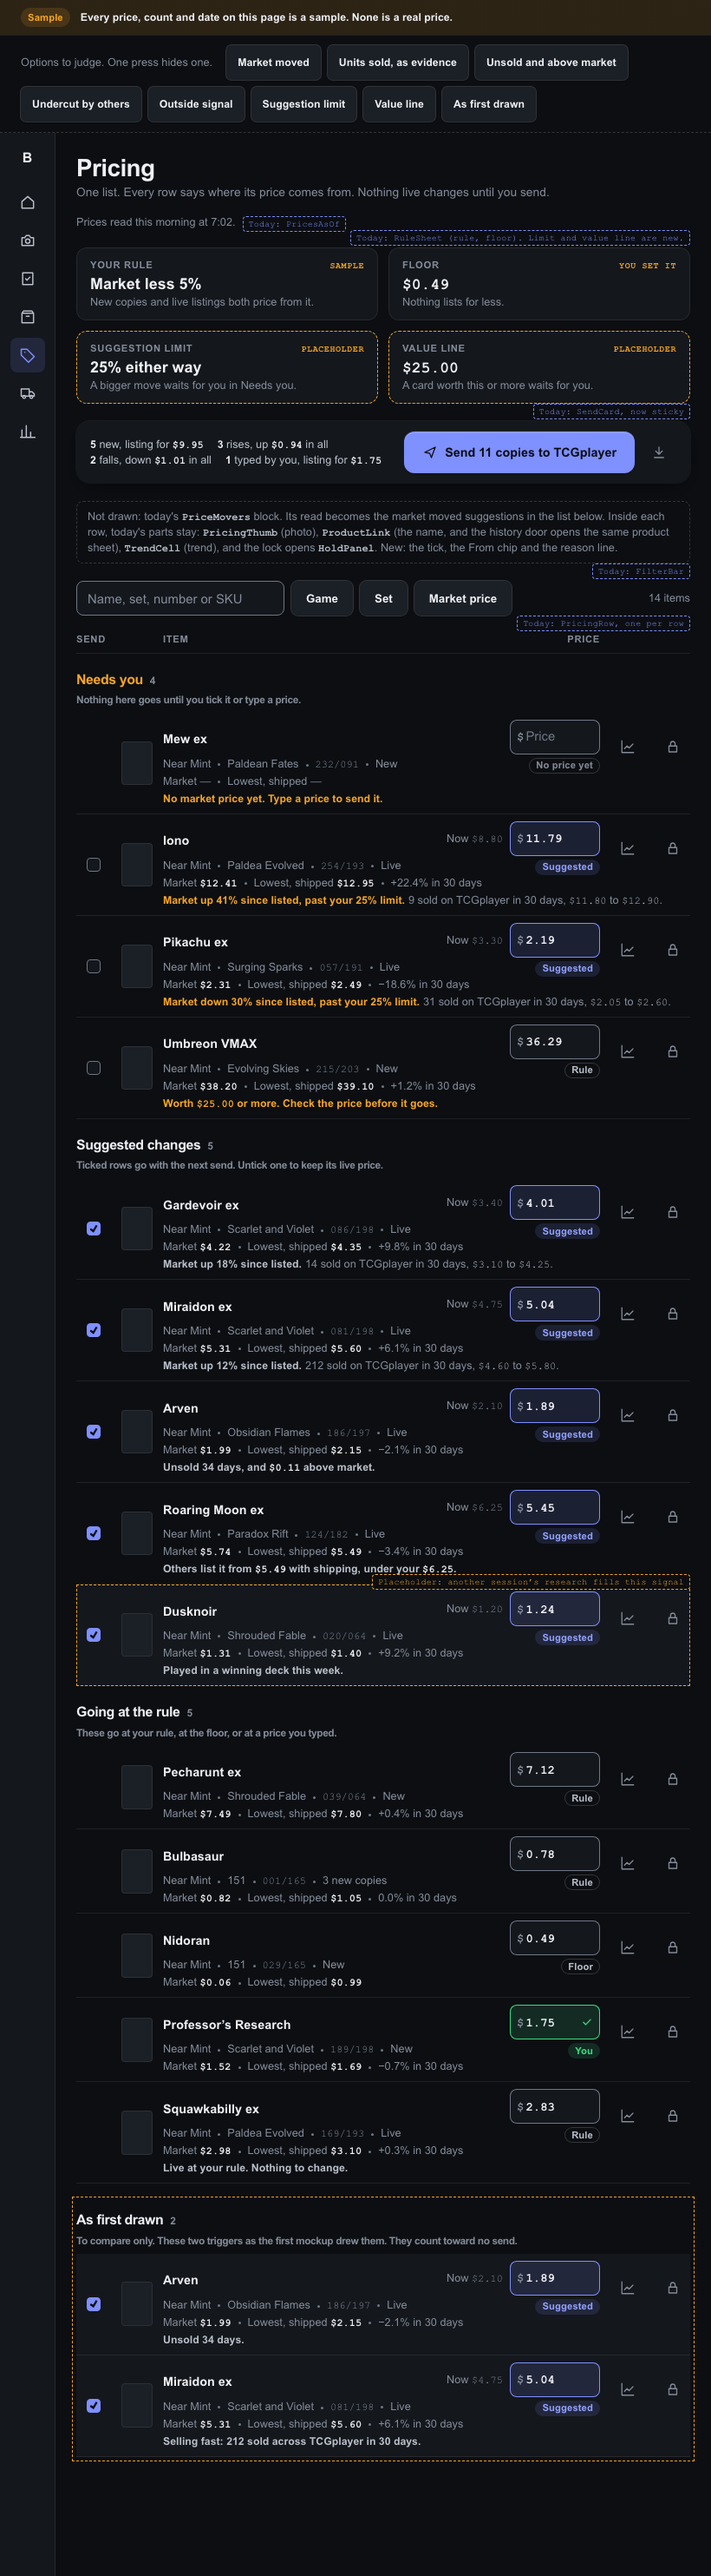
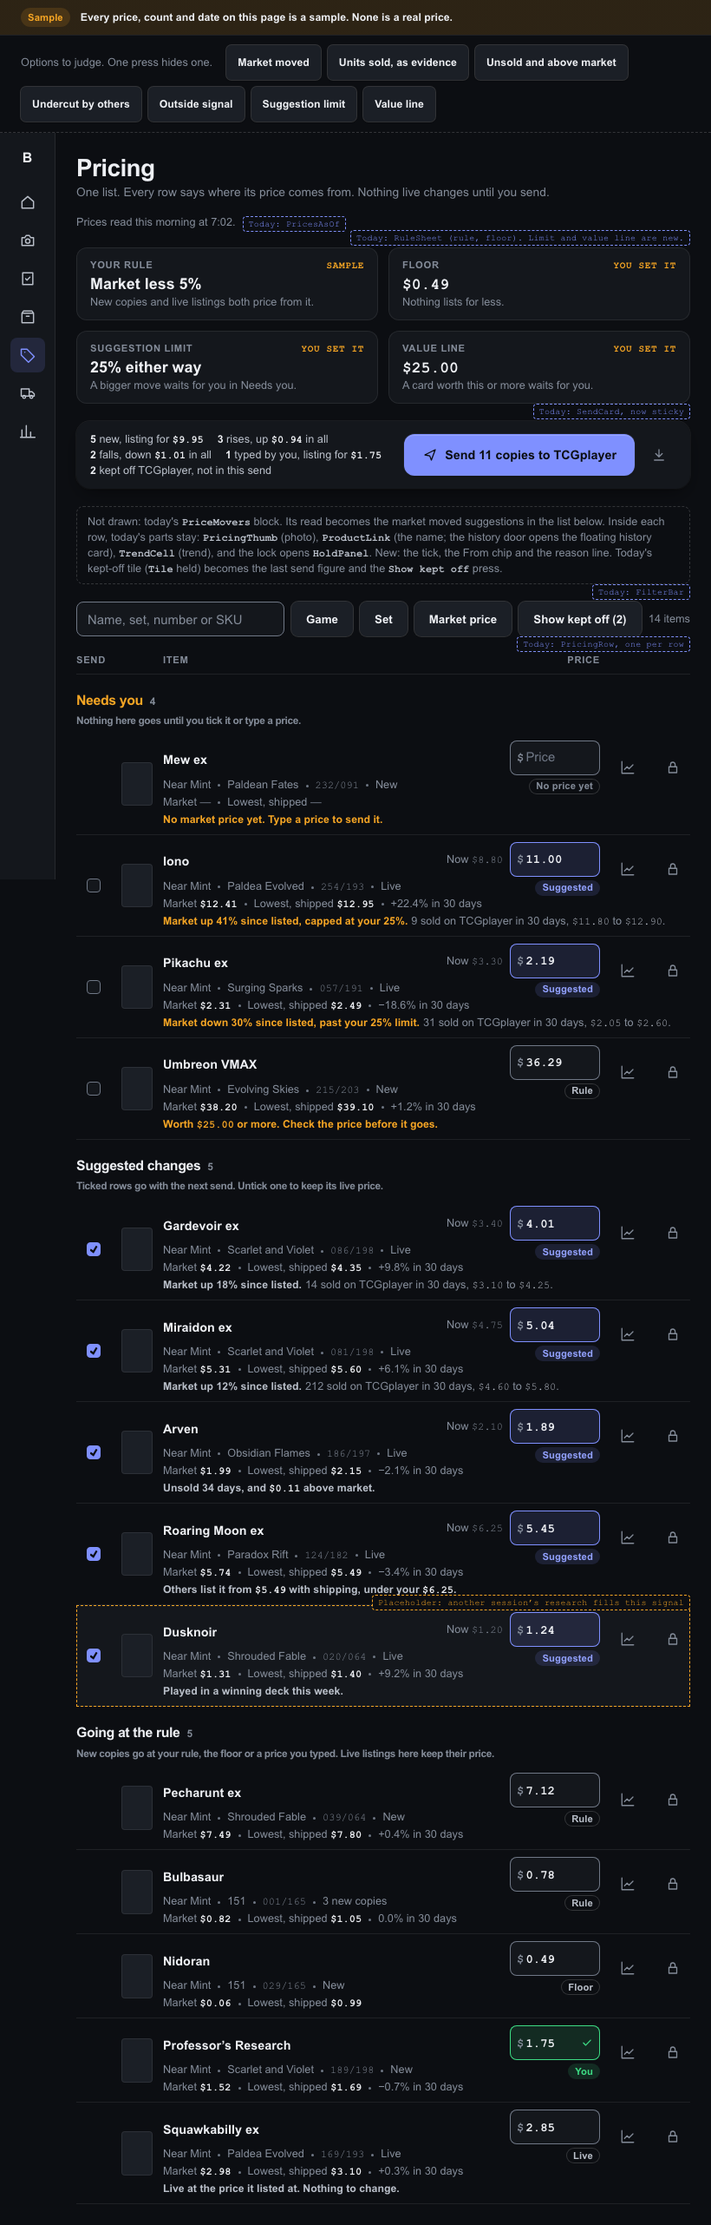
design: pricing list mockup matches the signed-off rulings
Add the Live source and keep a live price that has no reason to change.
Stop a raise at the suggestion limit (Iono $8.80 to $11.00).
Show the kept-off count in the send bar and a "Show kept off" press.
Mark the limit and value line as owner settings; drop the compare group.
Notes record the rulings; open items carry Owner grant: yes.

Done: list mockup checked against spec and rulings at 1440 and 820, light and dark; PNGs re-shot.
Next: builder lane pricing-one-list builds from it.

diff --git a/docs/design/pricing-suggest/list.html b/docs/design/pricing-suggest/list.html
@@ -55,7 +55,7 @@
     .frame[data-w='820'] .asof .today { bottom: auto; top: 2px; right: auto; left: calc(100% + var(--bn-2)); }
   body.nonotes .today, body.nonotes .gone-note { display: none; }
   .placeholder-ring { outline: 1px dashed var(--bn-warn); outline-offset: -1px; }
-  .ph { font-family: var(--bn-font-mono); font-size: var(--bn-fs-2xs); letter-spacing: var(--bn-tracking-caps);
+  .ph { font-family: var(--bn-font-mono); font-size: var(--bn-fs-xs); letter-spacing: var(--bn-tracking-caps);
         text-transform: uppercase; color: var(--bn-warn); font-weight: 700; }
 
   /* ---------- the shell: sidebar at 1440, rail at 820 ---------- */
@@ -127,7 +127,6 @@
   .group-count { font-size: var(--bn-fs-sm); font-weight: 700; color: var(--bn-ink-3); font-variant-numeric: tabular-nums; }
   .group-lede { font-size: var(--bn-fs-sm); color: var(--bn-ink-3); margin-left: var(--bn-2); }
   .group[data-g='needs'] .group-title { color: var(--bn-warn); }
-  .group[data-g='first'] { margin-top: var(--bn-5); padding: var(--bn-3) 0 0; outline: 1px dashed var(--bn-warn); outline-offset: var(--bn-1); }
   .group[hidden], .row[hidden], [data-opt][hidden] { display: none; }
 
   /* A row is two lines: the name line with its figures, then the reason under them. */
@@ -243,13 +242,13 @@
             <span class="set-val"><span class="bn-money">$0.49</span></span>
             <span class="set-says">Nothing lists for less.</span>
           </button>
-          <button class="set placeholder-ring" type="button" data-opt="cap">
-            <span class="set-top"><span class="bn-label">Suggestion limit</span><span class="ph">Placeholder</span></span>
+          <button class="set" type="button" data-opt="cap">
+            <span class="set-top"><span class="bn-label">Suggestion limit</span><span class="ph">You set it</span></span>
             <span class="set-val">25% either way</span>
             <span class="set-says">A bigger move waits for you in Needs you.</span>
           </button>
-          <button class="set placeholder-ring" type="button" data-opt="value">
-            <span class="set-top"><span class="bn-label">Value line</span><span class="ph">Placeholder</span></span>
+          <button class="set" type="button" data-opt="value">
+            <span class="set-top"><span class="bn-label">Value line</span><span class="ph">You set it</span></span>
             <span class="set-val"><span class="bn-money">$25.00</span></span>
             <span class="set-says">A card worth this or more waits for you.</span>
           </button>
@@ -268,7 +267,7 @@
         </aside>
 
         <p class="gone-note">Not drawn: today's <b>PriceMovers</b> block. Its read becomes the market moved suggestions in the list below.
-          Inside each row, today's parts stay: <b>PricingThumb</b> (photo), <b>ProductLink</b> (the name, and the history door opens the same product sheet), <b>TrendCell</b> (trend), and the lock opens <b>HoldPanel</b>. New: the tick, the From chip and the reason line.</p>
+          Inside each row, today's parts stay: <b>PricingThumb</b> (photo), <b>ProductLink</b> (the name; the history door opens the floating history card), <b>TrendCell</b> (trend), and the lock opens <b>HoldPanel</b>. New: the tick, the From chip and the reason line. Today's kept-off tile (<b>Tile</b> held) becomes the last send figure and the <b>Show kept off</b> press.</p>
 
         <div class="filters mark">
           <span class="today">Today: FilterBar</span>
@@ -276,6 +275,7 @@
           <button class="bn-btn chip" type="button">Game</button>
           <button class="bn-btn chip" type="button">Set</button>
           <button class="bn-btn chip" type="button">Market price</button>
+          <button class="bn-btn chip" type="button" data-kept></button>
           <span class="count" data-count></span>
         </div>
 
@@ -324,7 +324,7 @@
   const OPTIONS = [
     ['moved', 'Market moved'], ['fast', 'Units sold, as evidence'], ['unsold', 'Unsold and above market'],
     ['undercut', 'Undercut by others'], ['signal', 'Outside signal'], ['cap', 'Suggestion limit'],
-    ['value', 'Value line'], ['first', 'As first drawn'],
+    ['value', 'Value line'],
   ]
   const hidden = new Set((HASH.get('hide') || '').split(',').filter(Boolean))
 
@@ -338,7 +338,7 @@
       { kind: 'new', name: 'Mew ex', set: 'Paldean Fates', no: '232/091', market: null, low: null, price: null, src: 'none',
         why: 'No market price yet. Type a price to send it.', tone: 'warn', tick: null, spark: null },
       { kind: 'live', name: 'Iono', set: 'Paldea Evolved', no: '254/193', market: 12.41, low: 12.95, now: 8.80, price: 12.41, src: 'Suggested', opt: 'cap',
-        why: 'Market up 41% since listed, past your 25% limit.', ev: ev(9, 11.80, 12.90), tone: 'warn', tick: false, spark: [5, 5, 6, 6, 7, 8, 9, 9], pct: '+22.4%' },
+        why: 'Market up 41% since listed, capped at your 25%.', ev: ev(9, 11.80, 12.90), tone: 'warn', tick: false, spark: [5, 5, 6, 6, 7, 8, 9, 9], pct: '+22.4%' },
       { kind: 'live', name: 'Pikachu ex', set: 'Surging Sparks', no: '057/191', market: 2.31, low: 2.49, now: 3.30, price: 2.31, src: 'Suggested', opt: 'cap',
         why: 'Market down 30% since listed, past your 25% limit.', ev: ev(31, 2.05, 2.60), tone: 'warn', tick: false, spark: [9, 9, 8, 7, 6, 5, 4, 4], pct: '−18.6%' },
       { kind: 'new', name: 'Umbreon VMAX', set: 'Evolving Skies', no: '215/203', market: 38.20, low: 39.10, price: 36.29, src: 'Rule', opt: 'value',
@@ -357,33 +357,30 @@
         ring: 'Placeholder: another session’s research fills this signal',
         why: 'Played in a winning deck this week.', tick: true, spark: [3, 3, 3, 3, 4, 4, 4, 5], pct: '+9.2%' },
     ] },
-    { g: 'rule', title: 'Going at the rule', lede: 'These go at your rule, at the floor, or at a price you typed.', rows: [
+    { g: 'rule', title: 'Going at the rule', lede: 'New copies go at your rule, the floor or a price you typed. Live listings here keep their price.', rows: [
       { kind: 'new', name: 'Pecharunt ex', set: 'Shrouded Fable', no: '039/064', market: 7.49, low: 7.80, price: 7.12, src: 'Rule', tick: null, spark: [7, 7, 7, 6, 7, 7, 7, 7], pct: '+0.4%' },
       { kind: 'new', name: 'Bulbasaur', set: '151', no: '001/165', copies: 3, market: 0.82, low: 1.05, price: 0.78, src: 'Rule', tick: null, spark: [5, 5, 5, 5, 5, 5, 5, 5], pct: '0.0%' },
       { kind: 'new', name: 'Nidoran', set: '151', no: '029/165', market: 0.06, low: 0.99, price: 0.49, src: 'Floor', tick: null, spark: null },
       { kind: 'new', name: 'Professor’s Research', set: 'Scarlet and Violet', no: '189/198', market: 1.52, low: 1.69, price: 1.75, src: 'You', tick: null, spark: [5, 5, 5, 5, 4, 5, 5, 5], pct: '−0.7%' },
-      { kind: 'live', name: 'Squawkabilly ex', set: 'Paldea Evolved', no: '169/193', market: 2.98, low: 3.10, now: 2.85, price: 2.85, src: 'Rule', tick: null, still: true,
-        why: 'Live at your rule. Nothing to change.', spark: [6, 6, 6, 6, 6, 6, 6, 6], pct: '+0.3%' },
-    ] },
-    { g: 'first', title: 'As first drawn', opt: 'first', lede: 'To compare only. These two triggers as the first mockup drew them. They count toward no send.', rows: [
-      { kind: 'live', name: 'Arven', set: 'Obsidian Flames', no: '186/197', market: 1.99, low: 2.15, now: 2.10, price: 1.89, src: 'Suggested', alt: true,
-        why: 'Unsold 34 days.', tick: true, spark: [5, 5, 5, 4, 5, 4, 4, 4], pct: '−2.1%' },
-      { kind: 'live', name: 'Miraidon ex', set: 'Scarlet and Violet', no: '081/198', market: 5.31, low: 5.60, now: 4.75, price: 5.04, src: 'Suggested', alt: true,
-        why: 'Selling fast: 212 sold across TCGplayer in 30 days.', tick: true, spark: [4, 4, 5, 5, 5, 5, 6, 6], pct: '+6.1%' },
+      { kind: 'live', name: 'Squawkabilly ex', set: 'Paldea Evolved', no: '169/193', market: 2.98, low: 3.10, now: 2.85, price: 2.85, src: 'Live', tick: null, still: true,
+        why: 'Live at the price it listed at. Nothing to change.', spark: [6, 6, 6, 6, 6, 6, 6, 6], pct: '+0.3%' },
     ] },
   ]
   const FLOOR = 49
+  const CAP = 0.25
+  const KEPT = 2
   const rulePrice = (market) => Math.max(FLOOR, Math.floor((Math.round(market * 100) * 95 + 50) / 100)) / 100
   for (const r of G.flatMap((g) => g.rows)) {
     if (r.market === null || !['Rule', 'Suggested', 'Floor'].includes(r.src)) continue
     r.price = rulePrice(r.market)
-    if (r.still) r.now = r.price
+    /* A raise stops at the suggestion limit. A fall past it keeps its full depth and waits for a tick. */
+    if (r.src === 'Suggested' && r.price > r.now * (1 + CAP)) r.price = Math.floor(r.now * (1 + CAP) * 100) / 100
   }
   const ROWS = G.flatMap((g) => g.rows.map((r) => Object.assign(r, { group: g })))
   ROWS.forEach((r, i) => { r.id = `r${i}` })
   const off = (r) => (r.opt && hidden.has(r.opt)) || (r.group.opt && hidden.has(r.group.opt))
 
-  const SRC_WORD = { Rule: 'Rule', You: 'You', Floor: 'Floor', Suggested: 'Suggested', none: 'No price yet' }
+  const SRC_WORD = { Rule: 'Rule', You: 'You', Floor: 'Floor', Suggested: 'Suggested', Live: 'Live', none: 'No price yet' }
 
   function spark(points) {
     if (!points) return '<span class="dash">—</span>'
@@ -399,7 +396,7 @@
     const was = r.kind === 'live' && !r.still ? `<span class="was">Now ${$(r.now)}</span><svg class="to" viewBox="0 0 24 24" fill="none" stroke="currentColor" stroke-width="2" stroke-linecap="round" stroke-linejoin="round"><path d="${PATH.arrow}"/></svg>` : ''
     const what = r.kind === 'live' ? 'Live' : r.copies ? `${r.copies} new copies` : 'New'
     const chip = `<span class="bn-pill bn-pill-outline">${SRC_WORD[r.src]}</span>`
-    return `<div class="cols row${r.ring || r.alt ? ' ringed' : ''}${r.ring ? ' placeholder-ring mark' : ''}" data-src="${r.src}" data-opt="${r.opt || ''}">
+    return `<div class="cols row${r.ring ? ' ringed' : ''}${r.ring ? ' placeholder-ring mark' : ''}" data-src="${r.src}" data-opt="${r.opt || ''}">
       ${r.ring ? `<span class="today new">${r.ring}</span>` : ''}
       ${tick}
       <span class="thumb" aria-hidden="true"></span>
@@ -423,7 +420,7 @@
   function tally() {
     const t = { fresh: 0, freshCash: 0, up: 0, upCash: 0, down: 0, downCash: 0, typed: 0, typedCash: 0 }
     for (const r of ROWS) {
-      if (off(r) || r.alt || r.still || r.price === null) continue
+      if (off(r) || r.still || r.price === null) continue
       if (r.tick === false) continue
       const n = r.copies || 1
       if (r.src === 'You') { t.typed += n; t.typedCash += r.price * n }
@@ -443,9 +440,11 @@
       `<span><b>${t.fresh}</b> new, listing for ${$(t.freshCash)}</span>` +
       `<span><b>${t.up}</b> ${t.up === 1 ? 'rise' : 'rises'}, up ${$(t.upCash)} in all</span>` +
       `<span><b>${t.down}</b> ${t.down === 1 ? 'fall' : 'falls'}, down ${$(-t.downCash)} in all</span>` +
-      `<span><b>${t.typed}</b> typed by you, listing for ${$(t.typedCash)}</span>`
+      `<span><b>${t.typed}</b> typed by you, listing for ${$(t.typedCash)}</span>` +
+      `<span><b>${KEPT}</b> kept off TCGplayer, not in this send</span>`
     root.querySelector('[data-send-press]').innerHTML = `${svg('send', 18)}Send ${copies(t.units)} to TCGplayer`
-    root.querySelector('[data-count]').textContent = `${ROWS.filter((r) => !off(r) && !r.alt).length} items`
+    root.querySelector('[data-kept]').textContent = `Show kept off (${KEPT})`
+    root.querySelector('[data-count]').textContent = `${ROWS.filter((r) => !off(r)).length} items`
     for (const el of root.querySelectorAll('[data-opt]')) el.hidden = hidden.has(el.dataset.opt)
     for (const g of root.querySelectorAll('.group')) {
       g.hidden = g.dataset.opt !== undefined && hidden.has(g.dataset.opt)

diff --git a/docs/design/pricing-suggest/list-notes.md b/docs/design/pricing-suggest/list-notes.md
@@ -1,64 +1,67 @@
 # Pricing by suggestion: notes on the list mockup
 
-Mockup: `list.html` in this folder. Spec: `docs/specs/pricing-suggest.md`. Its section 1 rulings
-are the owner's and stay closed. Section 4b gives a recommendation for each trigger. The owner
-has ruled on none yet. Each option has a press in the mockup's cull strip that hides it
-(`#hide=<key>`).
-
-"Owner word: yes" marks a question that is still open. "Pick" is the designer's recommendation,
-not a ruling.
+Mockup: `list.html` in this folder. Spec: `docs/specs/pricing-suggest.md`. The owner signed off
+the mockup, and the spec's section 1 rulings and section 4b judgments govern it. Each option still
+has a press in the mockup's cull strip that hides it (`#hide=<key>`). "Owner grant: yes" marks a
+question that is still open. "Pick" is the designer's recommendation, not a ruling.
 
 1. **Market moved** (`moved`). The main trigger. Each row says the direction and the change
-   since listed: "Market up 18% since listed." Gain: it is the one signal with volume and
-   meaning. Loss: it needs the market on the listing day. Pick: keep. Owner word: yes. Open:
-   keep market moved as the main trigger?
+   since listed: "Market up 18% since listed." Ruled: keep (spec section 4b).
 2. **Units sold, as evidence** (`fast`). Selling fast is not its own trigger. Its market-wide
    units sold and the sold range follow a market-moved reason: "14 sold on TCGplayer in 30 days,
-   $3.10 to $4.25." Gain: the reason shows what stands behind it. Loss: the line is longer, and
-   the units are market-wide, not this listing's sales. Pick: show it. Owner word: yes. Open:
-   show units sold and the range on market-moved rows?
+   $3.10 to $4.25." Ruled: show it (spec sections 4b and 9).
 3. **Unsold and above market** (`unsold`). It fires only when both hold: "Unsold 34 days, and
-   $0.11 above market." Days alone never fire it. Gain: it names a real lowering. Loss: it fires
-   less often than age alone. Pick: keep as a qualifier. Owner word: yes. Open: keep unsold N
-   days only with "above market"? Which N?
+   $0.11 above market." Days alone never fire it. Ruled: a qualifier (spec section 4b).
+   Owner grant: yes. Open: which N?
 4. **Undercut by others** (`undercut`). "Others list it from $5.49 with shipping, under your
-   $6.25." The row says the price includes shipping. Gain: the data is stored already, and it
-   is rare. Loss: one low seller can pull a price down. Pick: keep, quiet. Owner word: yes.
-   Open: keep undercut?
-5. **Outside signal** (`signal`). A slot for a reason from another session's research, such as
-   "Played in a winning deck this week." Nothing builds it now. Pick: a placeholder only. Owner
-   word: yes. Open: keep the slot in the design?
-6. **As first drawn** (`first`). A compare group: unsold by age alone, and selling fast as its own
-   trigger. It counts toward no send. Pick: remove it once the owner has compared. Owner word:
-   yes. Open: is the comparison done?
-7. **Suggestion limit** (`cap`). 25% either way is a placeholder figure. A move inside it sits
-   ticked in Suggested changes. A bigger move sits in Needs you, unticked. Owner word: yes. Open:
-   what figure?
-8. **Value line** (`value`). $25.00 is a placeholder figure. A card at or above it sits in Needs
-   you, unticked. Owner word: yes. Open: what figure?
+   $6.25." The row says the price includes shipping. Ruled: keep, quiet (spec section 4b).
+5. **Outside signal** (`signal`). A slot for a reason from outside, such as "Played in a winning
+   deck this week." Nothing builds it now (spec section 4b). The sample row is ticked, so it counts
+   in the send figures; the builder draws no such row until a signal exists. Owner grant: yes.
+   Open: keep the slot in the design?
+6. **Suggestion limit** (`cap`). Starts at 25% either way, an owner setting (spec section 5,
+   step 3). The tile says "You set it", as the floor does. A move inside it sits ticked in
+   Suggested changes. A bigger move sits in Needs you, unticked.
+7. **Raises stop at the limit.** A suggestion may raise a price, up to the limit (D107, typed
+   price either direction, its Reopened line: the limit is the raise ceiling). A raise past the
+   limit is cut to the limit and waits in Needs you: Iono goes $8.80 to $11.00, "Market up 41%
+   since listed, capped at your 25%." A fall past the limit keeps its full depth and waits for a
+   tick (spec section 1, "a cap both ways"). Owner grant: yes. Open, not blocking: should a fall
+   past the limit also stop at the limit?
+8. **Value line** (`value`). Starts at $25.00, an owner setting (spec section 5, step 3). A card
+   at or above it sits in Needs you, unticked: "Worth $25.00 or more. Check the price before it
+   goes."
 9. **Needs-you rows start unticked.** Gain: nothing in Needs you goes by accident. Loss: a
-   value-line card at the rule price needs one more press. Pick: unticked. Owner word: yes.
-   Open: start them unticked?
-10. **Raises.** Market moved can raise a live price. This reopens D107 (only the rule never
-    proposes a raise). The suggestion limit is the raise ceiling D107 asks for. Pick: allow
-    raises. Owner word: yes. Open: may a suggestion raise a price?
-11. **PriceMovers block.** The mockup does not draw it. Its read becomes the market-moved rows.
-    Loss: the summary line "N items moved more than 10%" goes. Pick: remove it. Owner word: yes.
-    Open: remove the block?
-12. **Hold word.** The lock's label is "Keep off TCGplayer", a working name. It must differ from
-    the send guard's "held back" (spec section 6). Owner word: yes. Open: which word?
+   value-line card at the rule price needs one more press. Pick: unticked.
+10. **PriceMovers block.** The mockup does not draw it. Its read becomes the market-moved rows.
+    Loss: the summary line "N items moved more than 10%" goes. Spec section 9a picks this (option
+    1) but the owner has not ruled. Owner grant: yes. Open: remove the block?
+11. **Hold words.** The lock's label is "Keep off TCGplayer". A card kept back is "kept off
+    TCGplayer". Both are today's words (`Pricing.tsx`, the held tile). They differ from the send
+    guard's "held back" (spec section 6).
+12. **Kept-off cards.** Today's kept-off tile becomes the send bar's last figure, "2 kept off
+    TCGplayer, not in this send", and a filter press, "Show kept off (2)". Kept-off rows are not in
+    the three groups. Pick: as drawn.
 13. **Send bar.** Sticky under the sample ribbon, so it stays in view. It gives the copies in
     all, the new copies with their listing total, the rises with their total, the falls with
-    their total, and the typed prices with their total. A tick changes the figures at once.
-    Pick: as drawn.
-14. **Price source.** Each row says Rule, You, Floor or Suggested. "You" has its own tone, and a
-    typed price field carries today's "your price" check. Pick: as drawn.
+    their total, the typed prices with their total, and the kept-off count. A tick changes the
+    figures at once. The press reads "Send 11 copies to TCGplayer". Pick: as drawn.
+14. **Price source.** Each row says Rule, You, Floor, Suggested or Live (spec section 2). "You" has
+    its own tone, and a typed price field carries today's "your price" check. "Live" marks a live
+    listing with no reason to change; it keeps the price it listed at. Pick: as drawn.
 15. **Two spans, each labeled.** The trend column covers 30 days ("Trend, 30 days"). A
     market-moved reason covers the time since listing ("since listed"). Pick: as drawn.
-16. **Row shape.** The reason runs on its own line under the name and figures, so it fits on one
+16. **Row shape.** The reason runs on its own line under the name and figures, and fits on one
     line at 1440 and 820. At 820 the references take their own line. The name link is 40px tall.
     Rows and group titles sit on the page's 24px left edge. Pick: as drawn.
-17. **History door.** Each row has a chart button that opens the product sheet, the same place
-    the name link opens today. Pick: as drawn.
-18. **Rule wording.** "Market less 5%" is a sample. The anchor waits on the measurement in spec
-    section 5. "Floor" replaces "cut-off" in every screen string. Pick: as drawn.
+17. **History door.** Each row has a chart button. The floating history card (spec section 9c)
+    replaces the product sheet as its target; `history-float.html` draws it. Pick: as drawn.
+18. **Rule wording.** "Market less 5%" is a sample. The anchor is Market (spec section 5, step 1).
+    "Floor" replaces "cut-off" in every screen string. Pick: as drawn.
+
+On-screen strings the builder uses:
+
+- Group headings: "Needs you", "Suggested changes", "Going at the rule".
+- Value line: the tile "Value line", "$25.00", "A card worth this or more waits for you."; the row
+  reason "Worth $25.00 or more. Check the price before it goes."
+- Send: "Send N copies to TCGplayer", where N is the count (one copy reads "1 copy").
